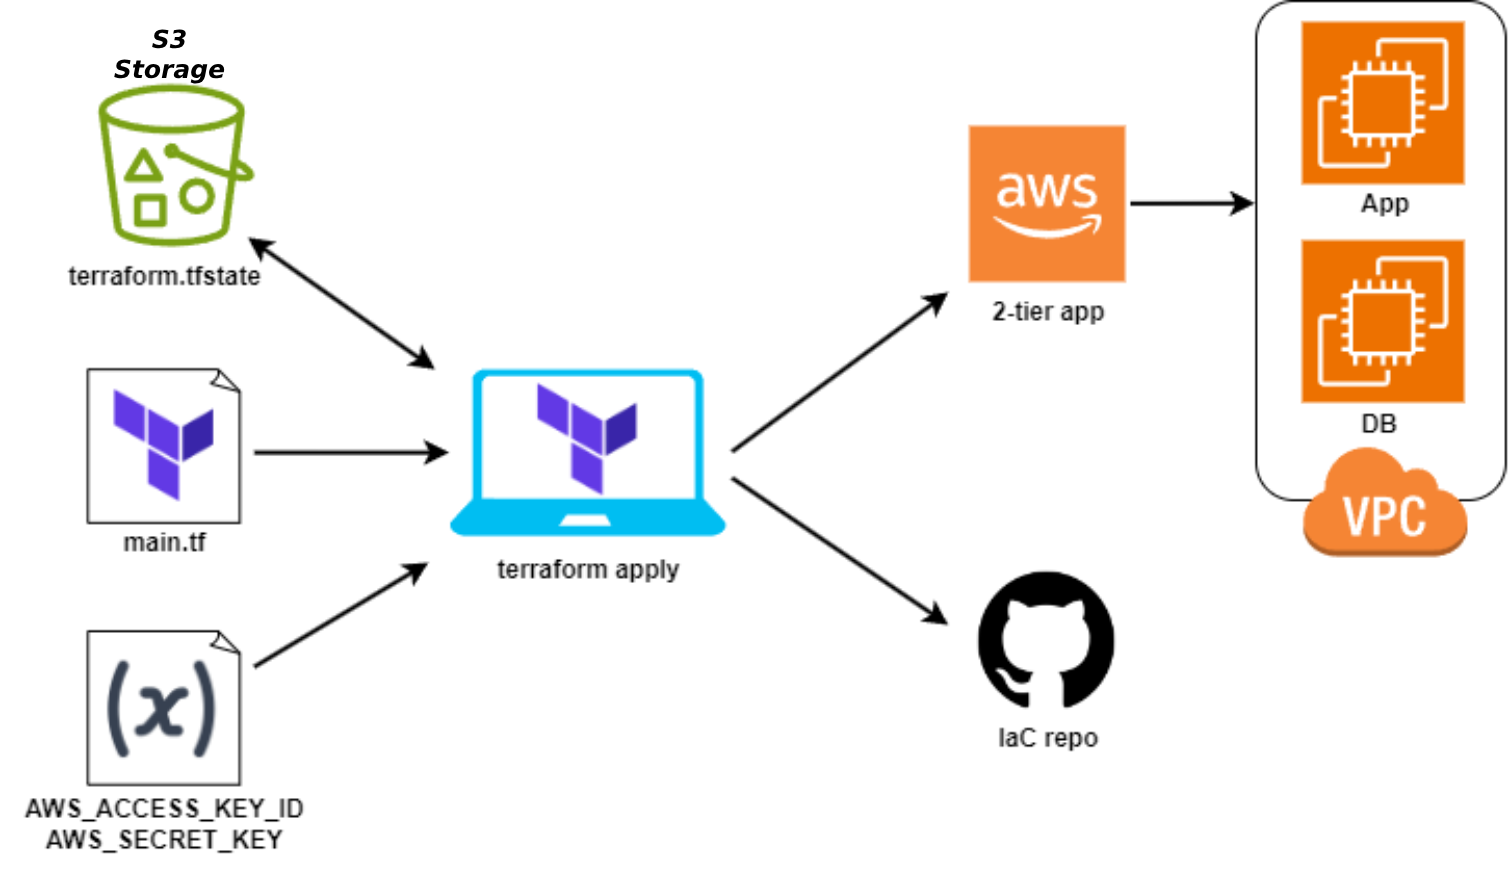
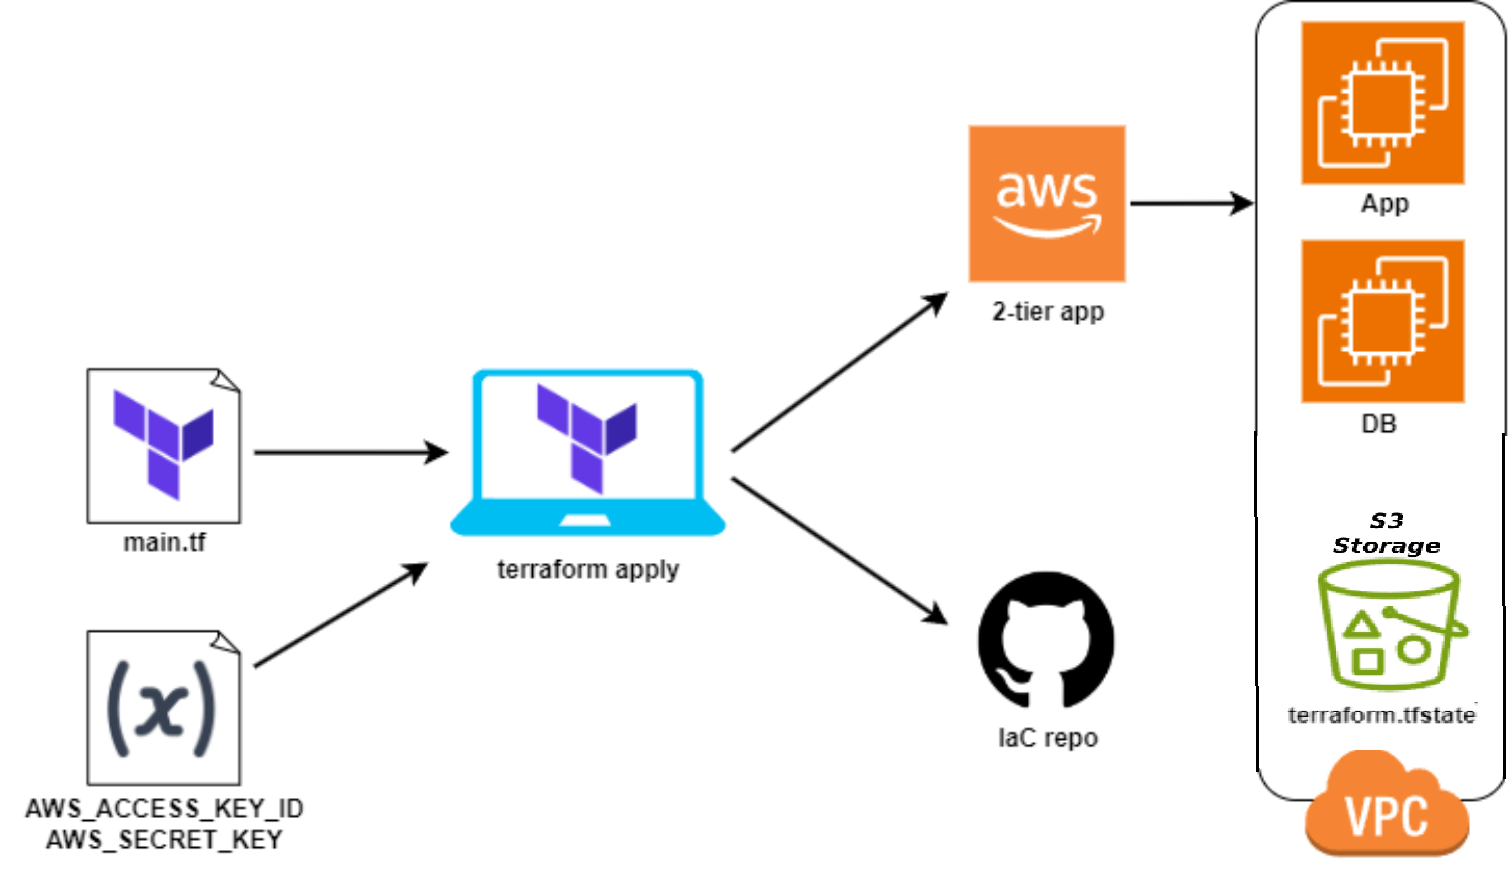
Updated terraform

diff --git a/readme.md b/readme.md
@@ -123,5 +123,6 @@ resource "github_repository" "automated_repo" {
 
 ## How Terraform manages states
 Terraform creates a .tfstate file which is a plan of the infrastructure you have built. This is saved locally on to your machine. When ever you want to make a change Terraform compares your desired state to the current state of your infrastructure and then overwrites the state file accordingly. This file is abstracted from your terraform file so it must be kept safe from public view, to do this I put it inside of a .gitignore file.
-
-![alt text](images/terraform_diagram.png)
+### S3 and statelock
+![alt text](images/terraform_diagram.png)<br>
+You can also store state files in a S3 bucket in your VPC. This allows selected access to your terraform state files.
